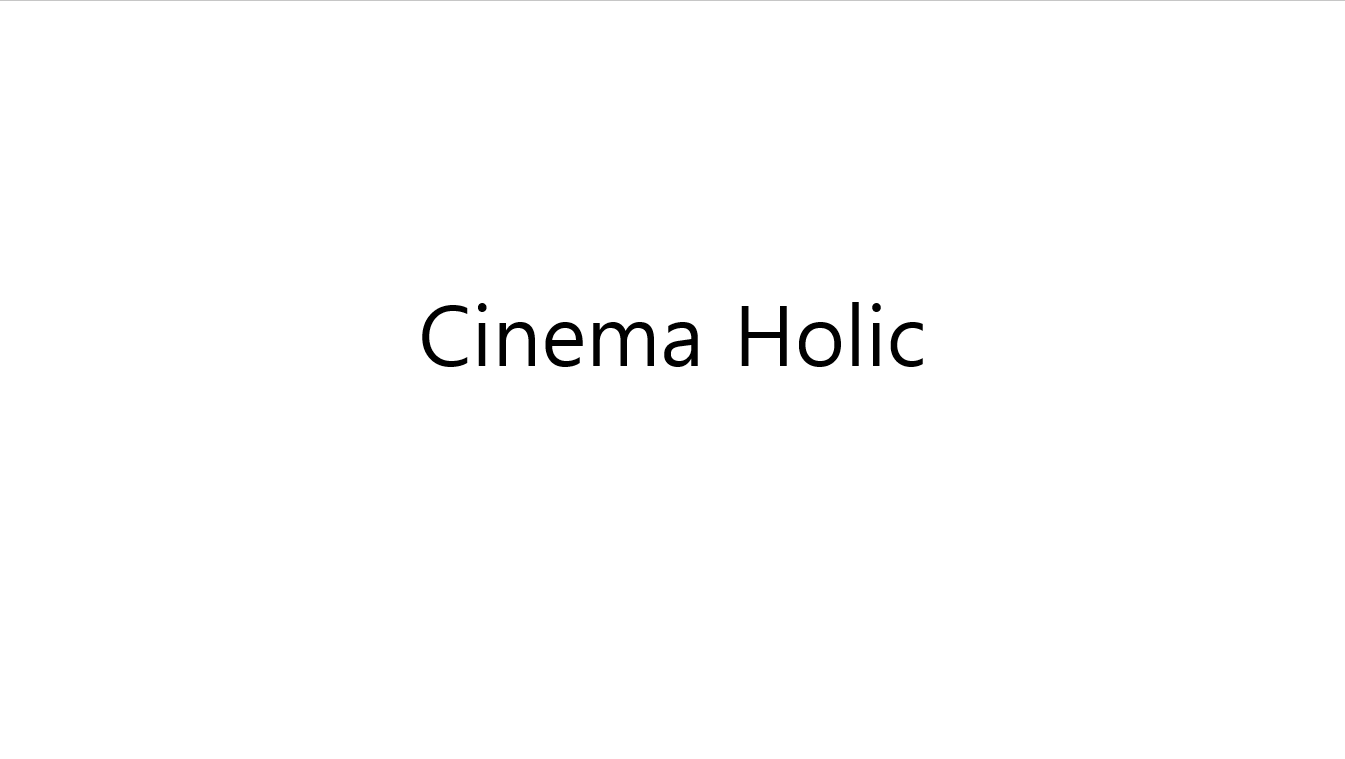
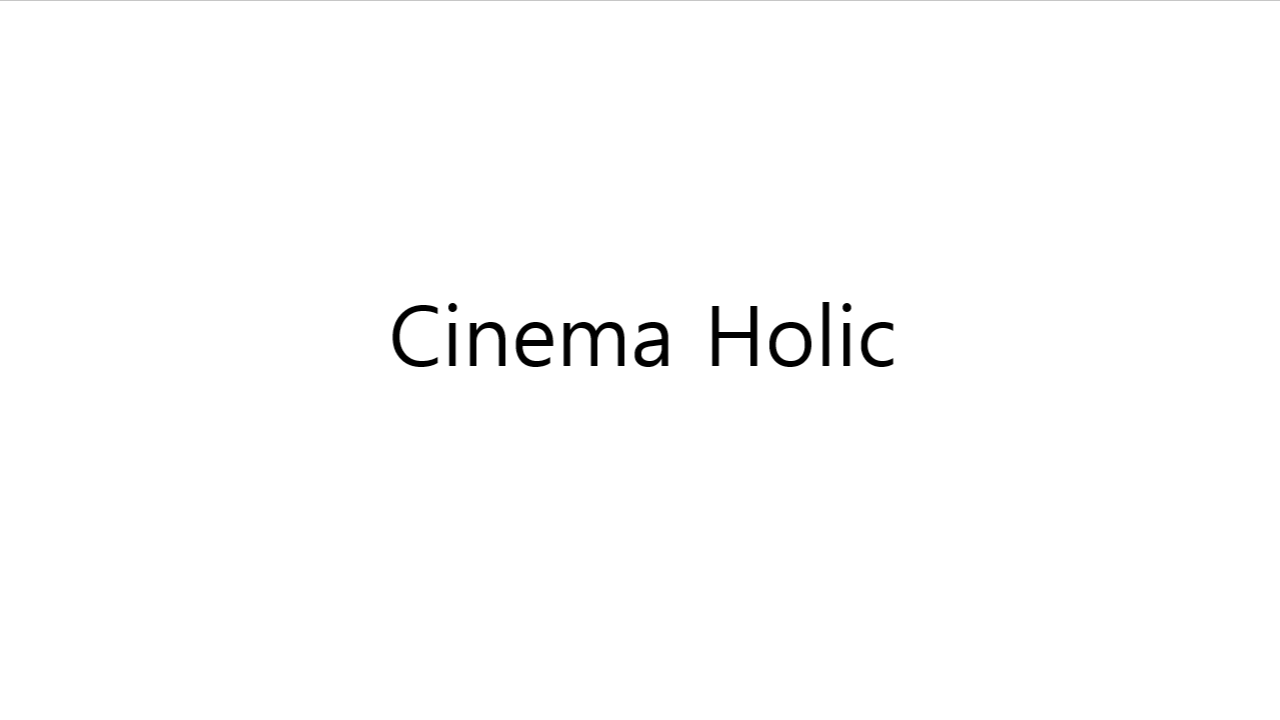
first commit in using wincodec lib

Changed region(s): [[0.2812, 0.3972, 0.7188, 0.5194]]

diff --git a/src/ImgManager.cpp b/src/ImgManager.cpp
@@ -1,0 +1,56 @@
+#include <stdio.h>
+#include <string.h>
+
+#include <windows.h>
+#include <wincodec.h>
+
+#include "ImgManager.hpp"
+
+wchar_t res_path[256];
+
+void GetResourceDir() {
+    GetCurrentDirectoryW(sizeof(res_path), res_path);
+    wcscat_s(res_path, sizeof(res_path), L"\\res\\");
+}
+
+IWICBitmapFrameDecode* CustomLoadImage(wchar_t* img_name) {
+    wchar_t img_path[256] = L"";
+
+    swprintf_s(img_path, L"%ls\\%ls", res_path, img_name);
+
+    IWICImagingFactory* g_wicFactory = NULL;
+
+    HRESULT hr = CoCreateInstance(
+        CLSID_WICImagingFactory,
+        NULL,
+        CLSCTX_INPROC_SERVER,
+        IID_PPV_ARGS(&g_wicFactory)
+    );
+
+    IWICBitmapDecoder* decoder = NULL;
+
+    hr = g_wicFactory->CreateDecoderFromFilename(
+            img_path,
+            NULL,
+            GENERIC_READ,
+            WICDecodeMetadataCacheOnLoad,
+            &decoder
+        );
+
+    if (FAILED(hr))
+        return NULL;
+
+    IWICBitmapFrameDecode* frame = NULL;
+
+    hr = decoder->GetFrame(
+        0,
+        &frame
+    );
+
+    decoder->Release();
+
+    if (FAILED(hr))
+        return NULL;
+
+    return frame;
+}

diff --git a/incl/ImgManager.hpp b/incl/ImgManager.hpp
@@ -1,0 +1,9 @@
+#ifndef ImgMGR_H
+#define ImgMGR_H
+
+extern wchar_t res_path[256];
+
+void GetResourceDir();
+IWICBitmapFrameDecode* CustomLoadImage(wchar_t* img_name);
+
+#endif